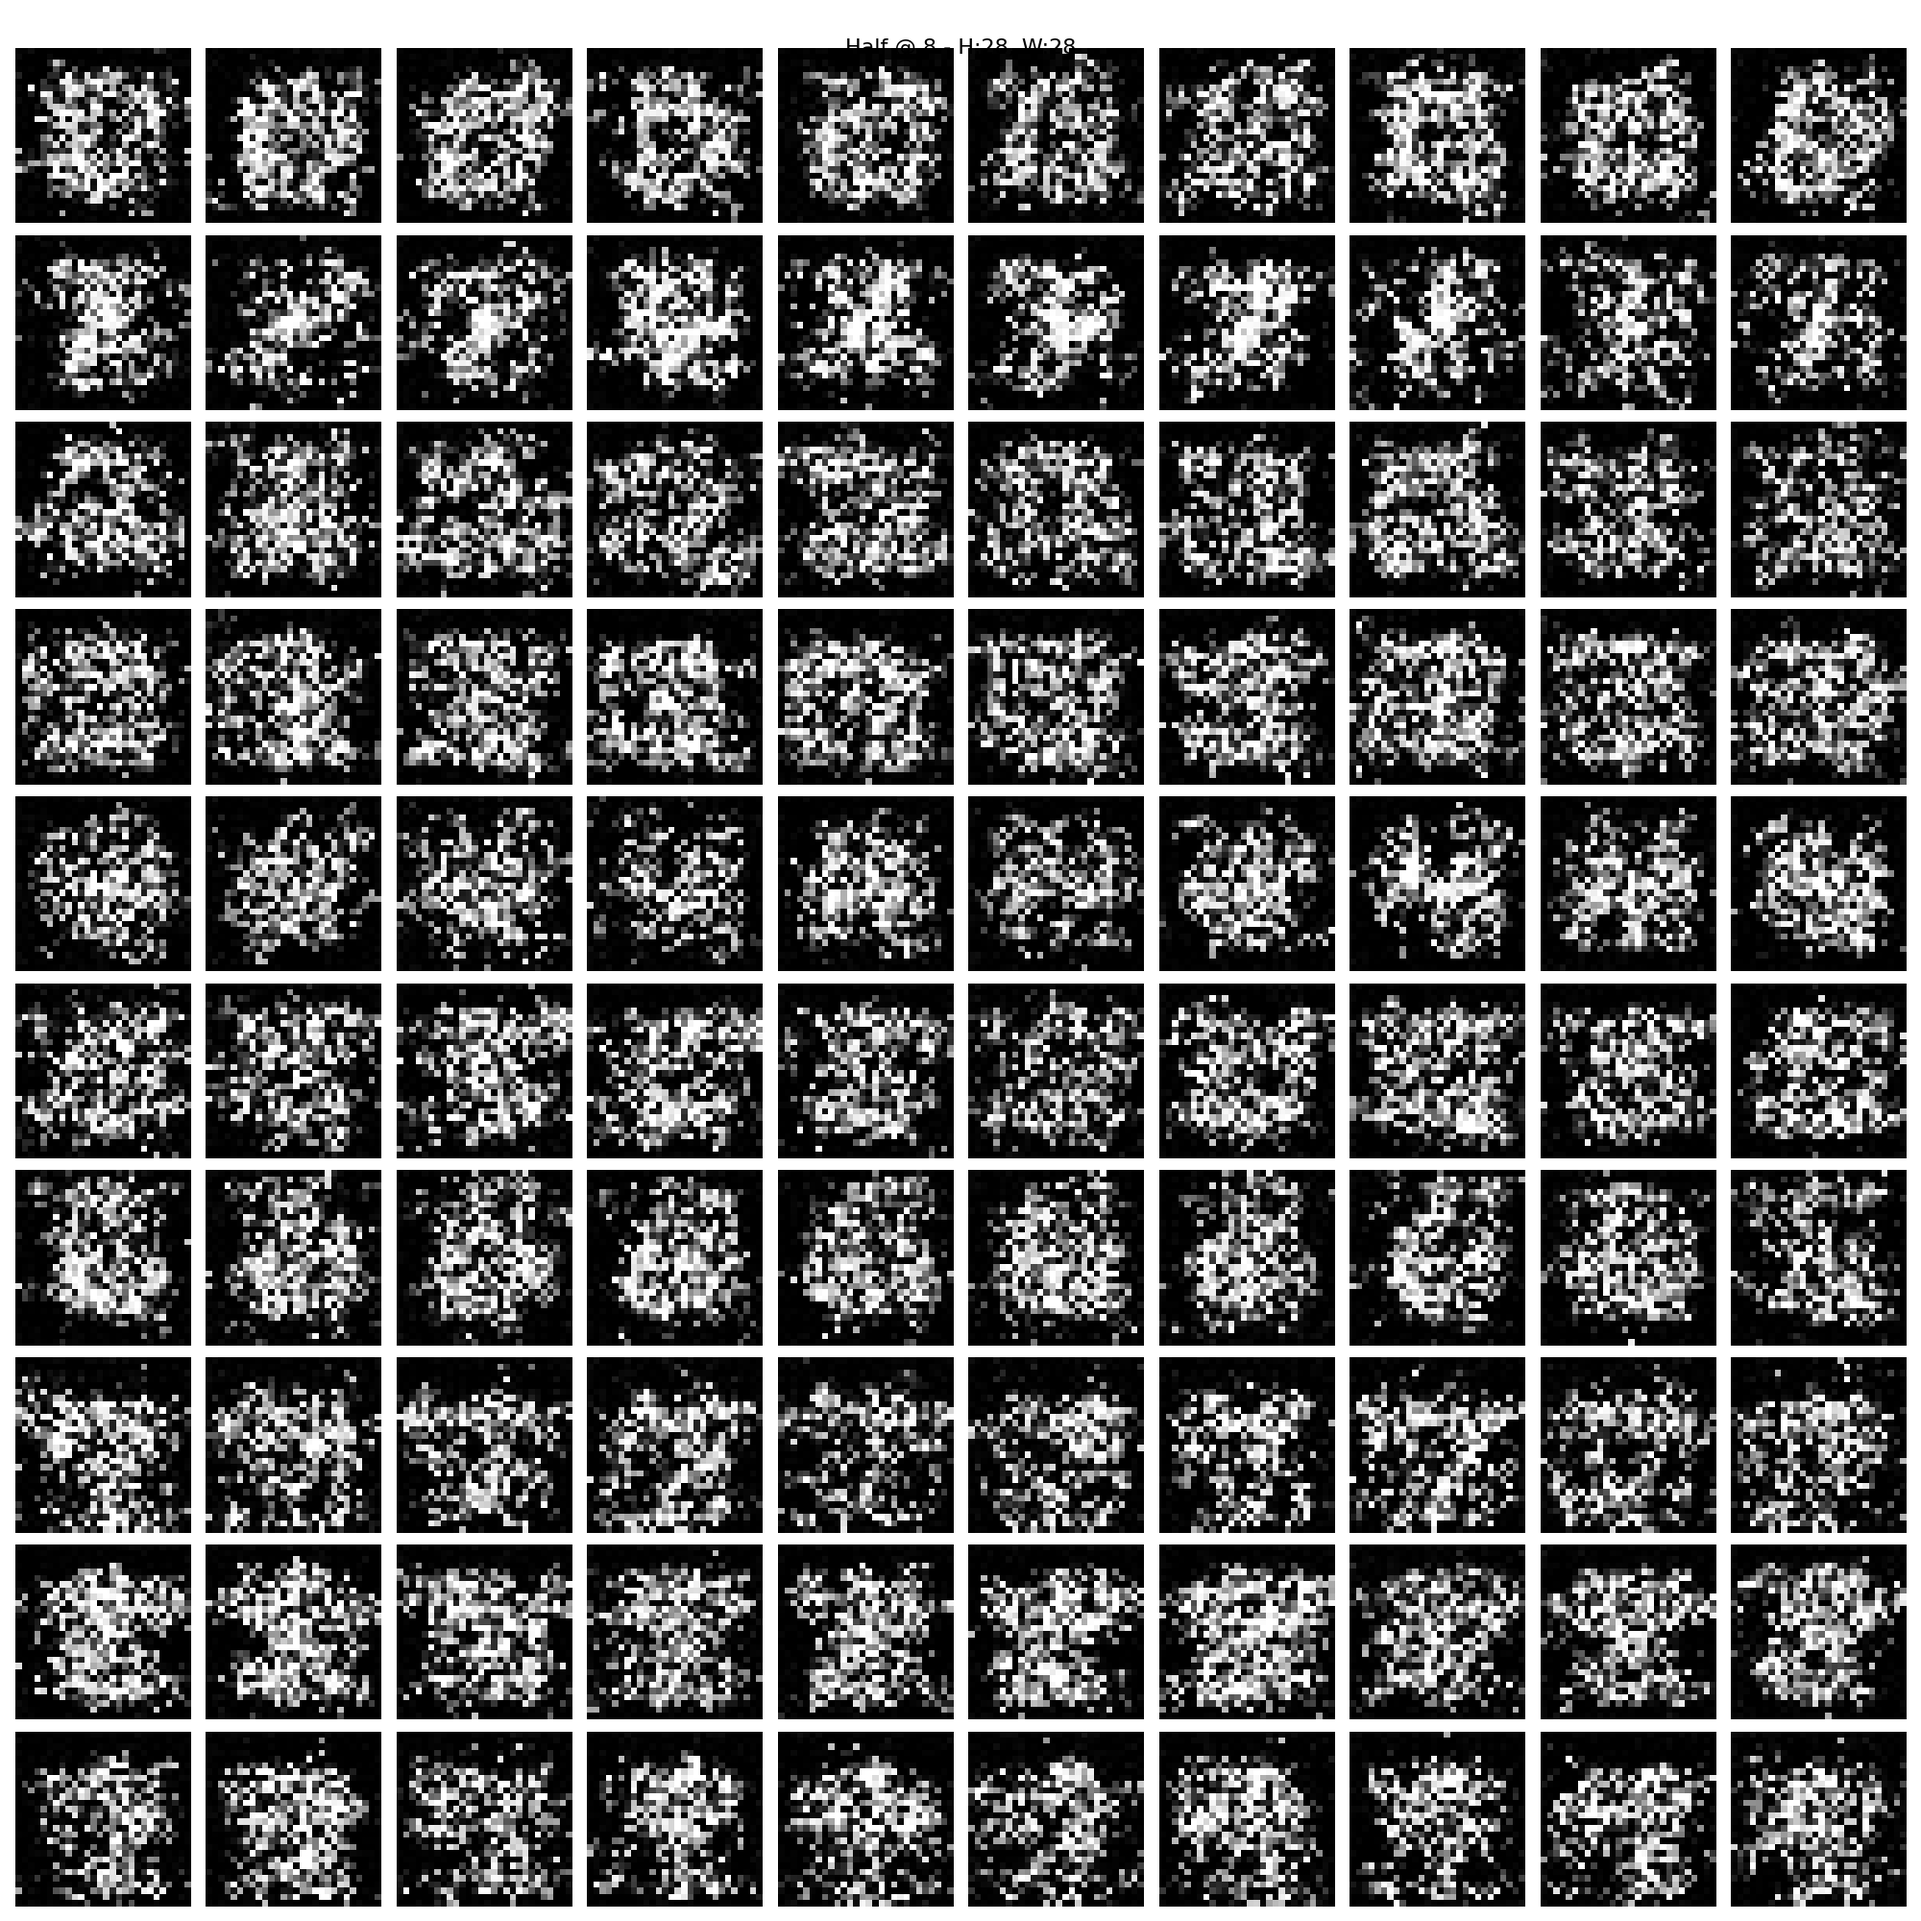
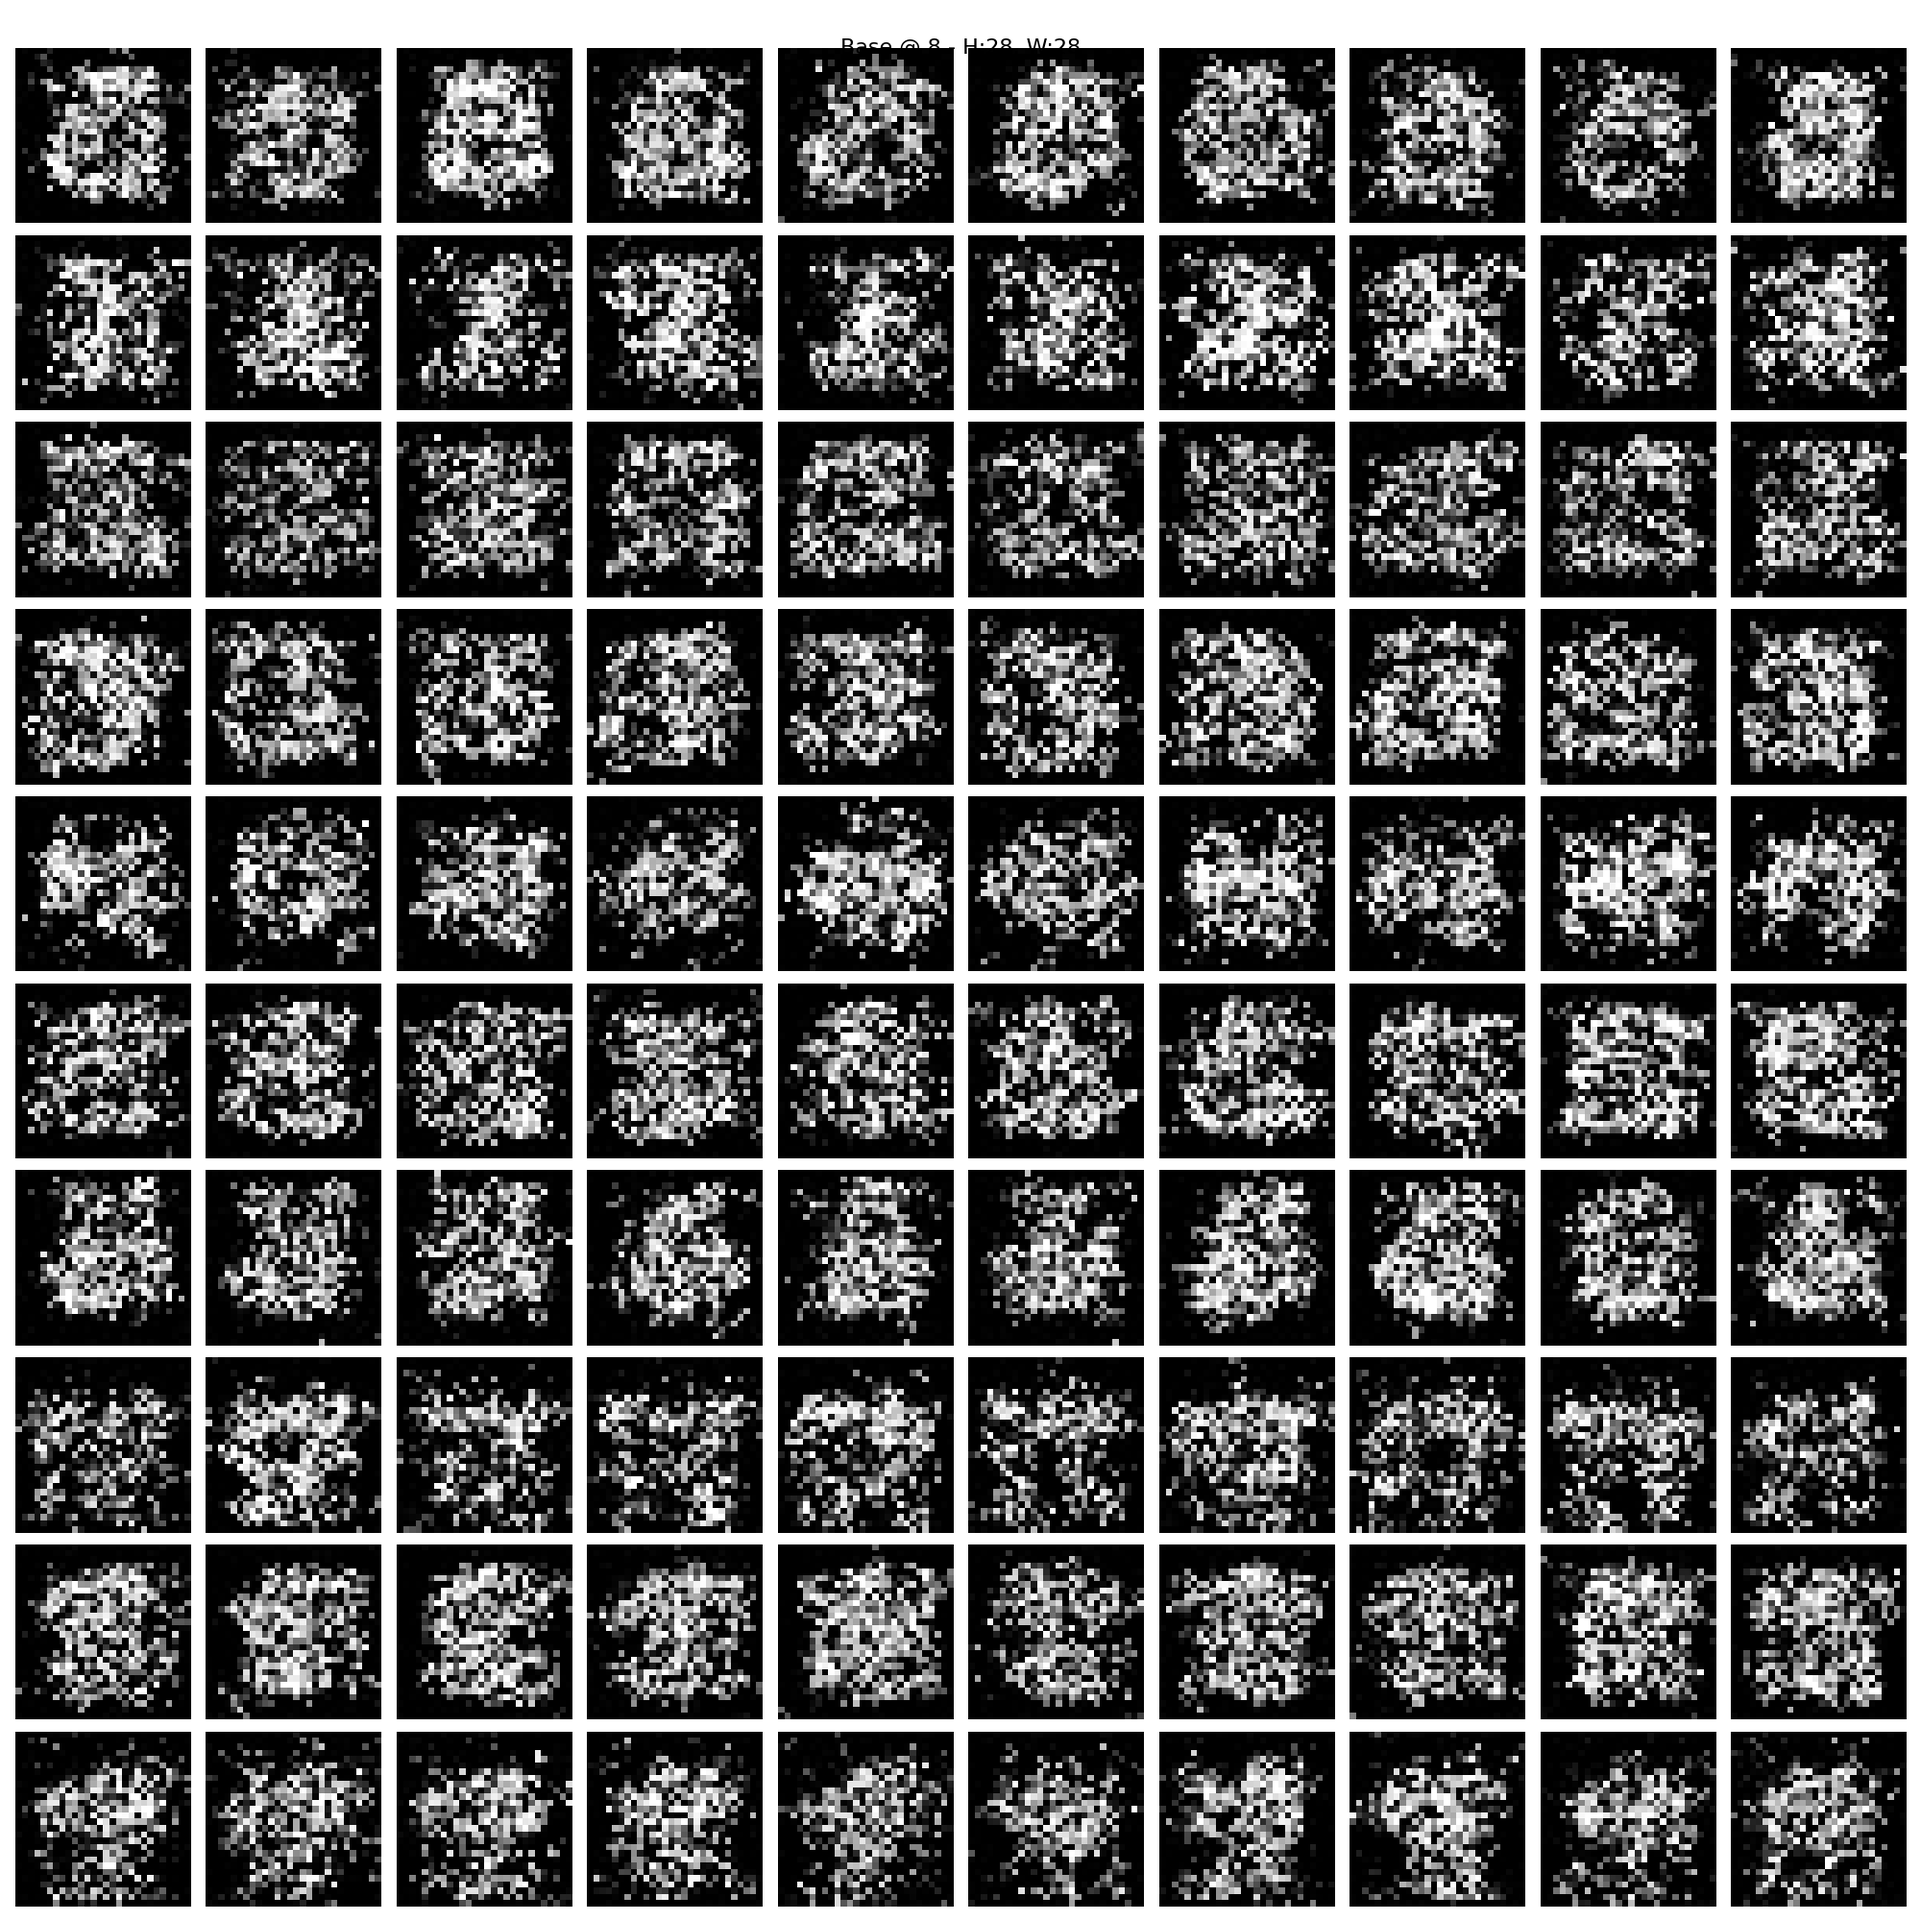
changed the architecture to 8 decoder blocks like before, quality is up of course. training on 2 lcouds, the media shows the results. checkpointing this before I go to RIAE

diff --git a/inference_v2.py b/inference_v2.py
@@ -12,7 +12,7 @@ model = RIID(
     c_channels=1,
     d_channels=128,
     enc_blocks=8,
-    dec_blocks=4,
+    dec_blocks=8,
     num_heads=8,
     pos_high_freq=8,
     pos_low_freq=3,
@@ -31,8 +31,8 @@ text_encoder = DummyTextCond(
 
 from save_load_model import load_checkpoint_into
 
-model = load_checkpoint_into(model, "models/E20_0.05264_diffusion_20260224_070413.pt", "cuda")
-text_encoder = load_checkpoint_into(text_encoder, "models/E20_0.05264_text_embedding_20260224_070413.pt")
+model = load_checkpoint_into(model, "models/E20_0.04429_diffusion_20260224_161134.pt", "cuda")
+text_encoder = load_checkpoint_into(text_encoder, "models/E20_0.04429_text_embedding_20260224_161135.pt")
 
 model.to(device)
 model.eval()
@@ -87,9 +87,9 @@ with torch.no_grad():
             null_text_cond=null_text_cond,
             alpha_bar_fn=alpha_bar_cosine,
             render_image_fn=render_image,
-            num_steps=100,
-            cfg_scale=4.0,  # change to 1.0 for sdxl
-            eta=2.0,  # change to 1.0 for sdxl
+            num_steps=20,  # 20 for double res bc i'm lazy and its slow, 100 for others
+            cfg_scale=4.0,
+            eta=2.0,
             render_every=1000,
             device=torch.device("cuda"),
             title=f"{name} - H:{height}, W:{width}"

diff --git a/train_v2.py b/train_v2.py
@@ -56,7 +56,7 @@ model = RIID(
     c_channels=1,
     d_channels=128,
     enc_blocks=8,
-    dec_blocks=4,
+    dec_blocks=8,
     num_heads=8,
     pos_high_freq=8,
     pos_low_freq=3,
@@ -120,7 +120,7 @@ def make_cosine_with_warmup(optimizer, warmup_steps, total_steps, lr_end):
 
 
 num_epochs = 20
-batch_size = 50
+batch_size = 25
 ema_decay = 0.9995
 
 train_dloader = DataLoader(train_dataset, batch_size=batch_size, shuffle=True)
